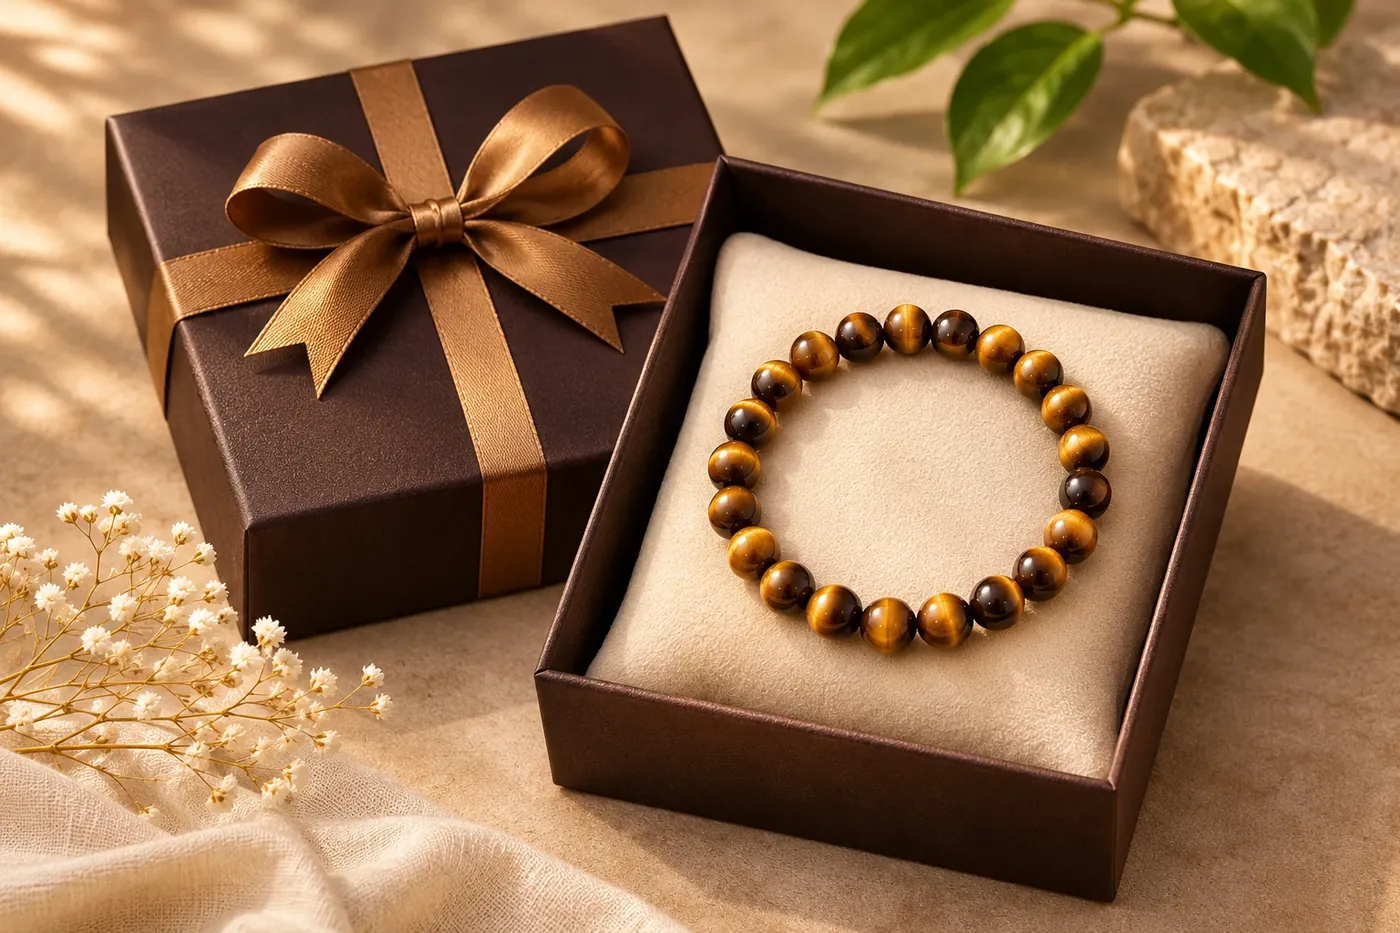
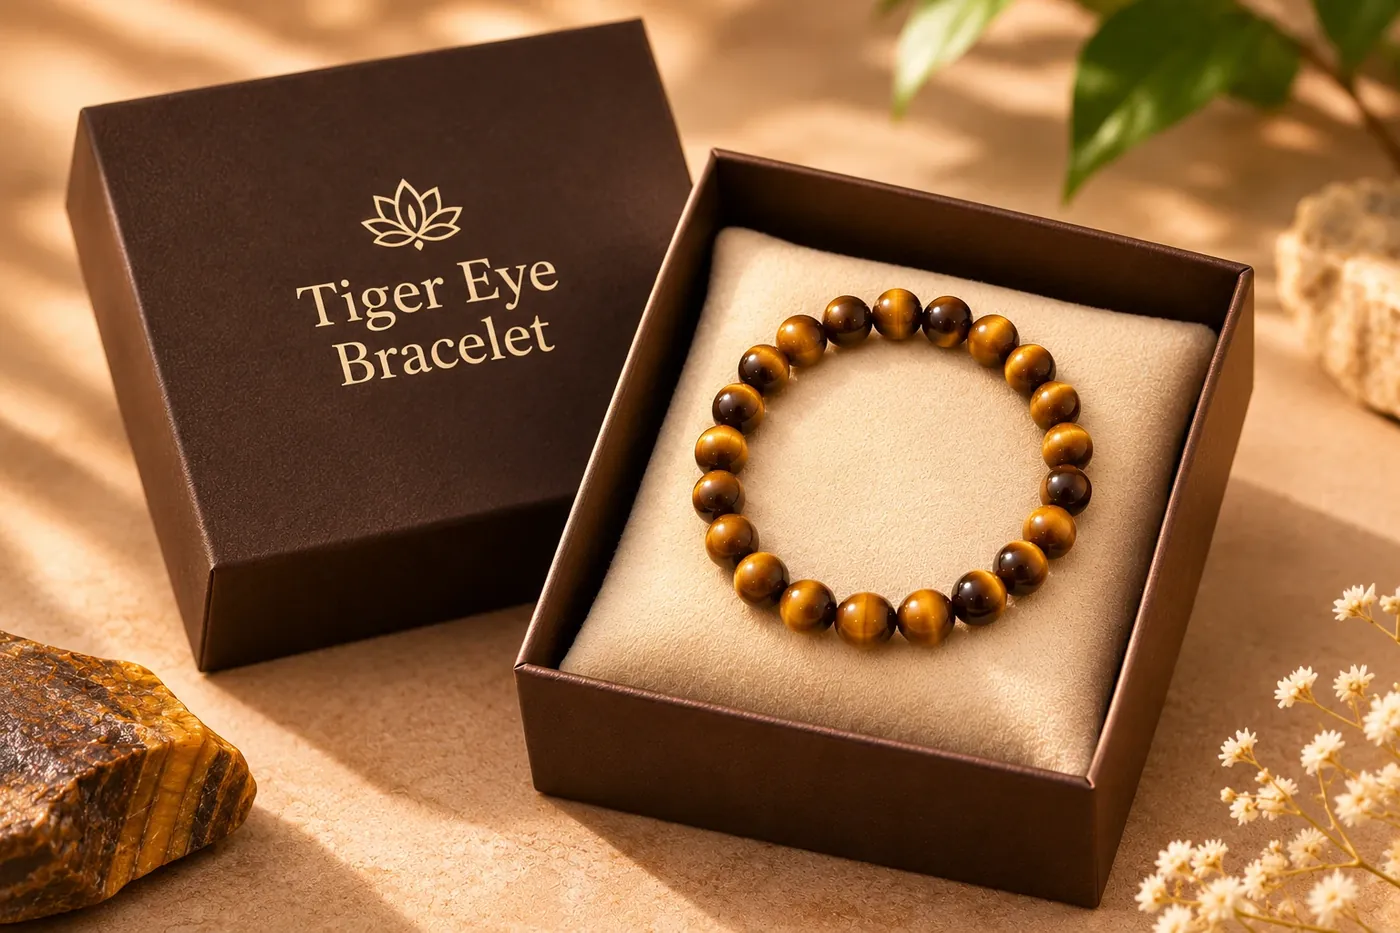
Replace gift box photo
Claude-Session: https://claude.ai/code/session_01AJwbtGmP1ER1wqqfm5BGHd

diff --git a/tiger-eye-landing/index.html b/tiger-eye-landing/index.html
@@ -355,7 +355,7 @@ textarea{resize:vertical;min-height:80px}
   <div class="band">
     <div class="wrap trio">
       <figure><img src="img/wrist-him.webp" alt="Tiger eye bracelet on a man's wrist resting on linen" loading="lazy"><h3>On him</h3><p>Sits flat and comfortable next to a watch or on its own.</p></figure>
-      <figure><img src="img/gift-box.webp" alt="Tiger eye bracelet in an open gift box with a ribboned lid" loading="lazy"><h3>Ready to gift</h3><p>Arrives in a rigid gift box with a soft pouch and care card.</p></figure>
+      <figure><img src="img/gift-box.webp" alt="Tiger eye bracelet in an open gift box printed with Tiger Eye Bracelet" loading="lazy"><h3>Ready to gift</h3><p>Arrives in a rigid gift box with a soft pouch and care card.</p></figure>
       <figure><img src="img/white-bg.webp" alt="Tiger eye bracelet on a white background" loading="lazy"><h3>One of a kind</h3><p>Natural stone, so no two bracelets have the same pattern.</p></figure>
     </div>
   </div>
@@ -458,7 +458,7 @@ const PHOTOS = [
   ["wrist-him","Tiger eye bracelet worn on a man's wrist"],
   ["wrist-her","Tiger eye bracelet on a woman's wrist holding a cup of chai"],
   ["bead-closeup","Close-up of polished tiger eye beads"],
-  ["gift-box","Tiger eye bracelet in an open gift box with a ribboned lid"],
+  ["gift-box","Tiger eye bracelet in an open gift box printed with Tiger Eye Bracelet"],
   ["white-bg","Tiger eye bracelet on a white background"]
 ];
 

diff --git a/tiger-eye-landing/standalone.html b/tiger-eye-landing/standalone.html
@@ -363,7 +363,7 @@ textarea{resize:vertical;min-height:80px}
   <div class="band">
     <div class="wrap trio">
       <figure><img src="img/wrist-him.webp" alt="Tiger eye bracelet on a man's wrist resting on linen" loading="lazy"><h3>On him</h3><p>Sits flat and comfortable next to a watch or on its own.</p></figure>
-      <figure><img src="img/gift-box.webp" alt="Tiger eye bracelet in an open gift box with a ribboned lid" loading="lazy"><h3>Ready to gift</h3><p>Arrives in a rigid gift box with a soft pouch and care card.</p></figure>
+      <figure><img src="img/gift-box.webp" alt="Tiger eye bracelet in an open gift box printed with Tiger Eye Bracelet" loading="lazy"><h3>Ready to gift</h3><p>Arrives in a rigid gift box with a soft pouch and care card.</p></figure>
       <figure><img src="img/white-bg.webp" alt="Tiger eye bracelet on a white background" loading="lazy"><h3>One of a kind</h3><p>Natural stone, so no two bracelets have the same pattern.</p></figure>
     </div>
   </div>
@@ -466,7 +466,7 @@ const PHOTOS = [
   ["wrist-him","Tiger eye bracelet worn on a man's wrist"],
   ["wrist-her","Tiger eye bracelet on a woman's wrist holding a cup of chai"],
   ["bead-closeup","Close-up of polished tiger eye beads"],
-  ["gift-box","Tiger eye bracelet in an open gift box with a ribboned lid"],
+  ["gift-box","Tiger eye bracelet in an open gift box printed with Tiger Eye Bracelet"],
   ["white-bg","Tiger eye bracelet on a white background"]
 ];
 
